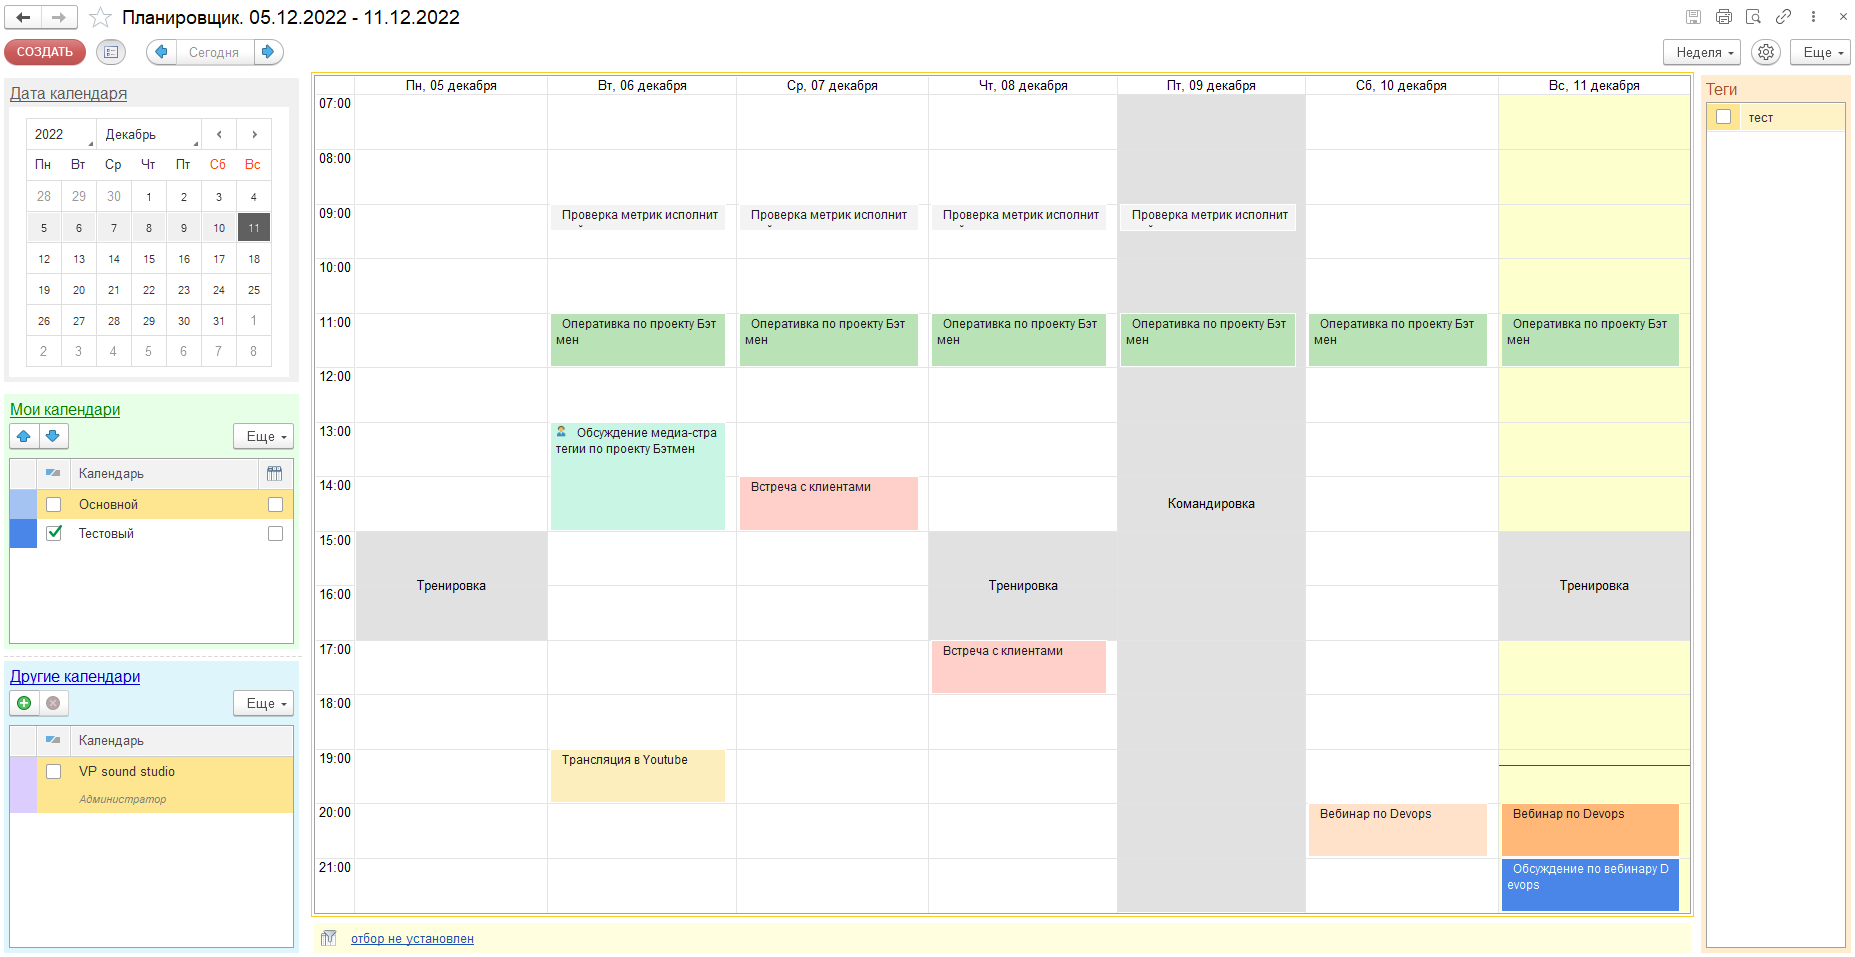
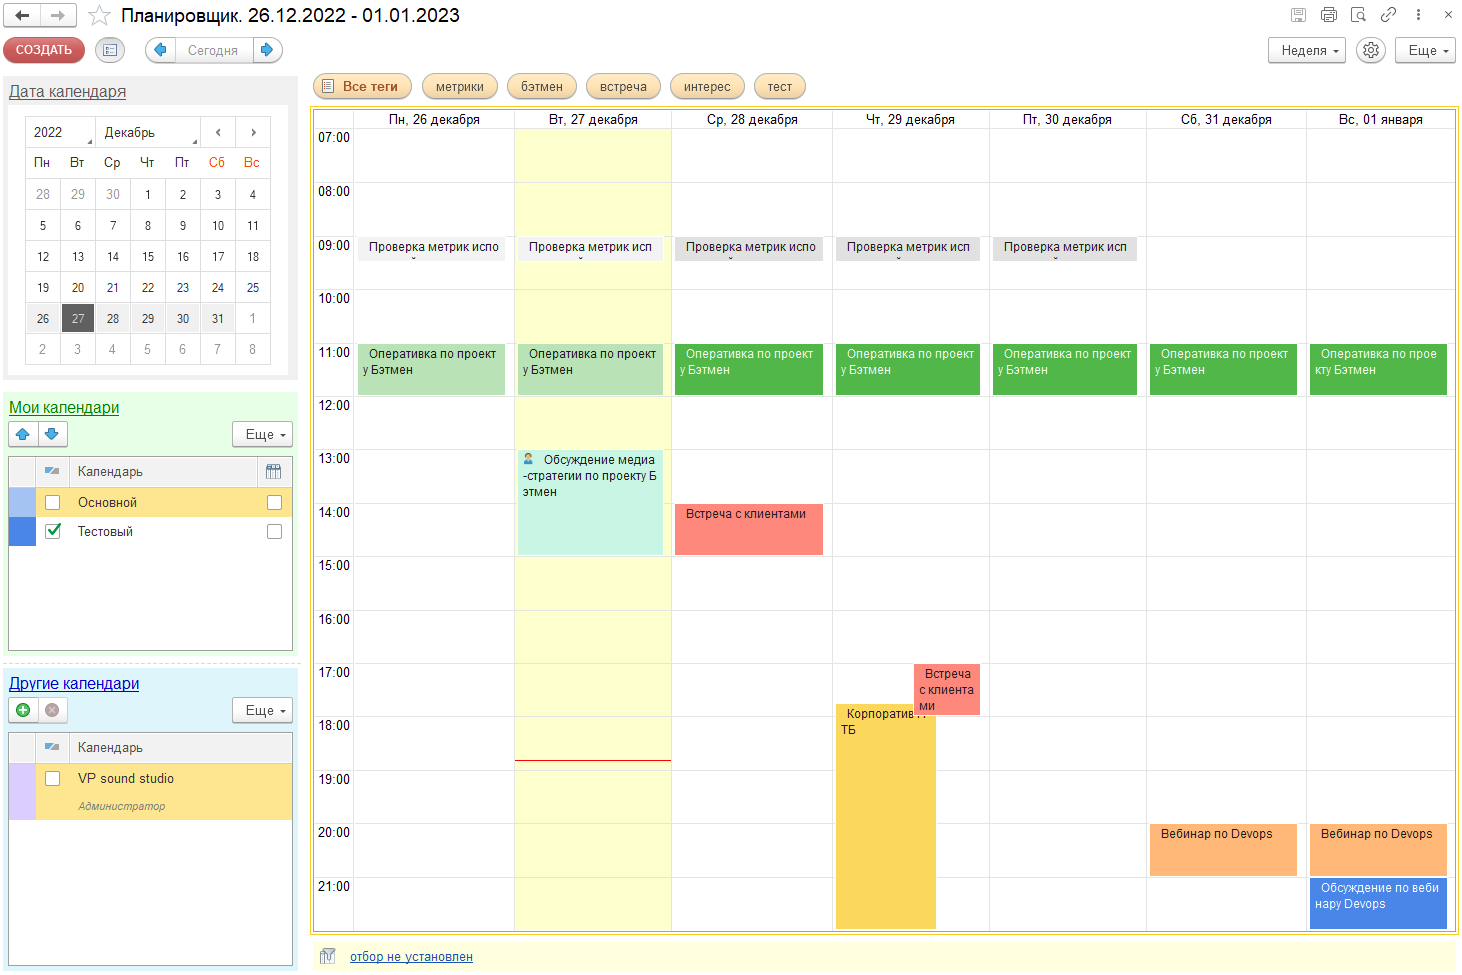
добавлена информация о релизе 3.0.1.2

diff --git a/docs/tech_info.md b/docs/tech_info.md
@@ -30,7 +30,7 @@ nav_exclude: true
     - Установить признак «Использовать интеграцию с Google Calendar»
     - Выполнить настройки интеграции с Google Calendar (Гиперссылка «Открыть настройки»)
   - Закладка «Индивидуальные» в данном случае предназначена для просмотра и редактирования настроек отдельных пользователей Администратором системы. При первичной настройке можно не трогать.
-- Меню "Планировщик" - "Планировщик: Цвета" и нажать кнопку "Заполнить" - "
+- Меню "Планировщик" - "Планировщик: Цвета" и нажать кнопку "Заполнить"
 
 ## Настройка интеграции с Google Calendar
 
@@ -44,14 +44,25 @@ nav_exclude: true
 ## Первый запуск и другая информация
 
 При первом запуске пользователя, система предложит ему выполнить первичную настройку системы.
-
 Все настройки не являются обязательными, однако существуют рекомендованные параметры, которые выставляются автоматически.
-
 Периодичность обмена с календарем Google выставлять менее 5 минут не стоит, если основной системой является 1С.
 
 Напоминания доступны только если существуют подсистемы напоминания, отправка SMS, электронная почта. При этом если одна из подсистем недоступна, напоминания могут быть настроены иным образом. При интеграции с Google Calendar не рекомендуется использовать отправку по SMS, поскольку в таком случае проще настроить чтение календаря на смартфоне.
 
 Инструмент не несет с собой никакой отдельной логики бизнес-процессов или планирования, т.е. можно использовать различные технологии планирования и управления задачами.
+
+## Регламентные задания
+
+При записи общих настроек планировщика, происходит проверка и при необходимости создание регламентных заданий:
+
+- **Планировщик: заполнение напоминаний** (периодичность: 1 раз в день). Выполняет очистку старых уведомлений (до текущей даты) и обновление уведомлений на неделю вперед.
+- **Планировщик: проверка напоминаний** (периодичность: каждые 60 сек). Выполняет обработку уведомлений пользователя:
+  - Всплывающие окна: заполнение в соответствующую подсистему (Напоминания)
+  - Электронная почта: запуск фонового задания отправки писем по электронной почте
+  - СМС: отправка запуск фонового задания уведомления через СМС
+- **Планировщик: обмен с Google Calendar** (периодичность: каждые 300 сек). Обмен с Google Calendar данными по календарями, событиям и т.д.
+
+Для корректной работы регламентных заданий требуется наличие подсистемы "ДополнительныеОтчетыИОбработки". Как правило она существует во всех типовых конфигурациях.
 
 ## Особенности установки
 

diff --git a/docs/history/2022-12-27-ver-3-0-1-2.md b/docs/history/2022-12-27-ver-3-0-1-2.md
@@ -1,0 +1,23 @@
+---
+layout: default
+title:  "3.0.1.2 - 12.2022"
+parent: История версий
+---
+
+# Версия 3.0.1.2. Декабрь 2022 г.
+{: .no_toc }
+
+<details open markdown="block">
+  <summary>
+    Содержание
+  </summary>
+  {: .text-delta }
+1. TOC
+{:toc}
+</details>
+
+
+## Форма планировщика
+
+- ключевые словама (теги) реализованы в виде панели кнопок над формой планировщика
+На форме выводиться только 15 самых популярных тега, остальные скрыты. Изменить список можно, только если отключать неиспользуемые теги (см. кнопку "Все теги")

diff --git a/docs/2_main_view.md b/docs/2_main_view.md
@@ -25,8 +25,8 @@ nav_order: 2
 - командная панель планировщика (верх формы)
 - панель управления периодом и календарями  (левая часть)
 - основное окно планировщика (центральная часть)
-- панель отбора по тегам (правая часть)
-- панель настройки отбора событий (низ формы)
+- панель отбора по тегам (верх центральной части)
+- панель настройки отбора событий (низ центральной части)
 
 ## Командная панель
 
